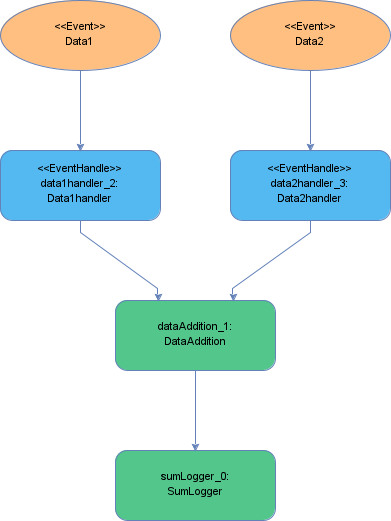
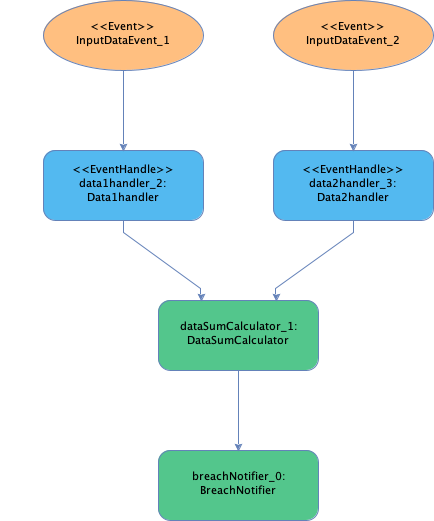
added docs for imperative building

diff --git a/docs/overview/helloworld_imperative.md b/docs/overview/helloworld_imperative.md
@@ -10,10 +10,10 @@ example_src: https://github.com/v12technology/fluxtion-examples/tree/main/impera
 # Example
 
 Fluxtion hello world stream example. Add two numbers from different event streams and log when the sum > 100.
-The sum is the addition of the value member variable from each event stream. 
+The sum is the addition of the current value from each event stream. 
 
 This example creates an event processor, initialises it and fires data events at the processor. If a breach occurs 
-the warning will be logged to console.
+a warning will be logged to console.
 
 Code is available as a [maven project]({{page.example_src}})
 
@@ -24,7 +24,7 @@ All projects that build a Fluxtion [EventProcessor]({{site.EventProcessor_link}}
 - [Annotate]({{site.fluxtion_src_runtime}}/annotations/) a method to indicate it is an event handling callback
 - Create a collection of instances of the pojo's that will act as nodes in the EvenProcessor
 - Set references between the pojos as per normal java. Constructor, getter/setter, public access etc.
-- Use one of the [Fluxtion]({{site.fluxtion_src_compiler}}/Fluxtion.java) compile/interpret methods passing in a 
+- Use one of the [Fluxtion]({{site.Fluxtion_link}}) compile/interpret methods passing in a 
 builder method that accepts [EventProcessorConfig]({{site.fluxtion_src_compiler}}/EventProcessorConfig.java)
 - Add your the root node/s of your object instance graph using EventProcessorConfig.addNode in your builder method
 - An EventProcessor instance is returned ready to be used
@@ -85,25 +85,94 @@ to the processor for processing
 | BreachNotifier    | no            | References the DataSumCalculator and logs a warning if sum > 100 |
 
 ####  [Data1Handler]({{page.example_src}}/Data1handler.java)
+An entry point for processing events of type InputDataEvent_1 and stores the latest value as a member variable. 
+Annotate the event handler method as follows:
+
+{% highlight java %}
+@OnEventHandler
+    public boolean data1Update(InputDataEvent_1 data1) {
+    value = data1.value();
+    return true;
+}
+{% endhighlight %}
 
 ####  [Data2Handler]({{page.example_src}}/Data2handler.java)
+An entry point for processing events of type InputDataEvent_2 and stores the latest value as a member variable. 
+Annotate the event handler method as follows:
+
+{% highlight java %}
+@OnEventHandler
+    public boolean data1Update(InputDataEvent_1 data1) {
+    value = data1.value();
+    return true;
+}
+{% endhighlight %}
 
 ####  [DataSumCalculator]({{page.example_src}}/DataSumCalculator.java)
+Calculates the current sum adding the values of Data1Handler and Data2Handler. Will be triggered when either handler 
+has its updated method invoked. Annotate the trigger method as follows:
+
+{% highlight java %}
+@OnTrigger
+public boolean calculate() {
+    sum = data1handler.getValue() + data2handler.getValue();
+    System.out.println("sum:" + sum);
+    return sum > 100;
+}
+{% endhighlight %}
+
+The return flag indicates that the event notification should be propagated and any child nodes trigger methods 
+should be invoked.
 
 ####  [BreachNotifier]({{page.example_src}}/BreachNotifier.java)
+Logs to console when the sum breaches a value, BreachNotifier holds a reference to the DataSumCalculator instance. 
+The trigger method is only invoked if the DataSumCalculator propagates the notification, by returning true from its trigger
+method. Annotate the trigger method as follows:
+
+{% highlight java %}
+@OnTrigger
+public void printWarning() {
+    System.out.println("WARNING DataSumCalculator value is greater than 100 sum = " + dataAddition.getSum());
+}
+{% endhighlight %}
 
 ### Event classes
+Java records as used to implement events, pojos are suitable to use as events in the Fluxtion.
 
-####  [InputDataEvent_1]({{page.example_src}}/InputDataEvent_1.java)
-
-####  [InputDataEvent_2]({{page.example_src}}/InputDataEvent_2.java)
+- [InputDataEvent_1]({{page.example_src}}/InputDataEvent_1.java)
+- [InputDataEvent_2]({{page.example_src}}/InputDataEvent_2.java)
 
 ### Building the EventProcessor
 
 See [Main]({{page.example_src}}/Main.java)
 
-### Publishing events
+Building the EventProcessor is simply giving the root node instance, BreachNotifier to a [Fluxtion]({{site.Fluxtion_link}}) builder method. The Fluxtion.interpret()
+method provides a [EventProcessorConfig]({{site.fluxtion_src_compiler}}/EventProcessorConfig.java) that the client adds
+root nodes to as follows: 
 
+{% highlight java %}
+var eventProcessor = Fluxtion.interpret(cfg -> cfg.addNode(new BreachNotifier()));
+{% endhighlight %}
+
+Fluxtion inspects all the references from the root node(s) and constructs the EventProcessor with instances of Data1Handler,
+Data2Handler and DataSumCalculator all included.
+
+### Publishing events
+Publishing events is simply a case of calling init on the EventProcessor and then call onEvent() with instances of InputDataEvent_1
+or InputDataEvent_2. The code for building and sending events follows:
+
+{% highlight java %}
+public class Main {
+  public static void main(String[] args) {
+    var eventProcessor = Fluxtion.interpret(cfg -> cfg.addNode(new BreachNotifier()));
+    eventProcessor.init();
+    eventProcessor.onEvent(new InputDataEvent_1(34.4));
+    eventProcessor.onEvent(new InputDataEvent_2(52.1));
+    eventProcessor.onEvent(new InputDataEvent_1(105));//should create a breach warning
+    eventProcessor.onEvent(new InputDataEvent_1(12.4));
+  }
+}
+{% endhighlight %}
 
 ## Example execution output
 

diff --git a/docs/cookbook/subscriptiption_functional.md b/docs/cookbook/subscriptiption_functional.md
@@ -12,7 +12,7 @@ example_src: https://github.com/v12technology/fluxtion-examples/tree/cook_subscr
 This example demonstrates subscribing to data events with a functional approach using the Fluxtion streaming api. The
 advantage of the streaming api is the reduction of user code written and the increased code re-use. 
 
-***Please read the [EventFeed subscription](subscription_imperative.html) cookbook article***
+***Please read the [EventFeed integration]({% link cookbook/subscription_imperative.md %}) cookbook article firste***
 
 The goal of this example is to subscribe to [SharePriceEvent's]({{page.example_src}}/SharePriceEvent.java) without 
 having to write [SharePriceNode's]({{page.example_src}}/imperative/SharePriceNode.java)
